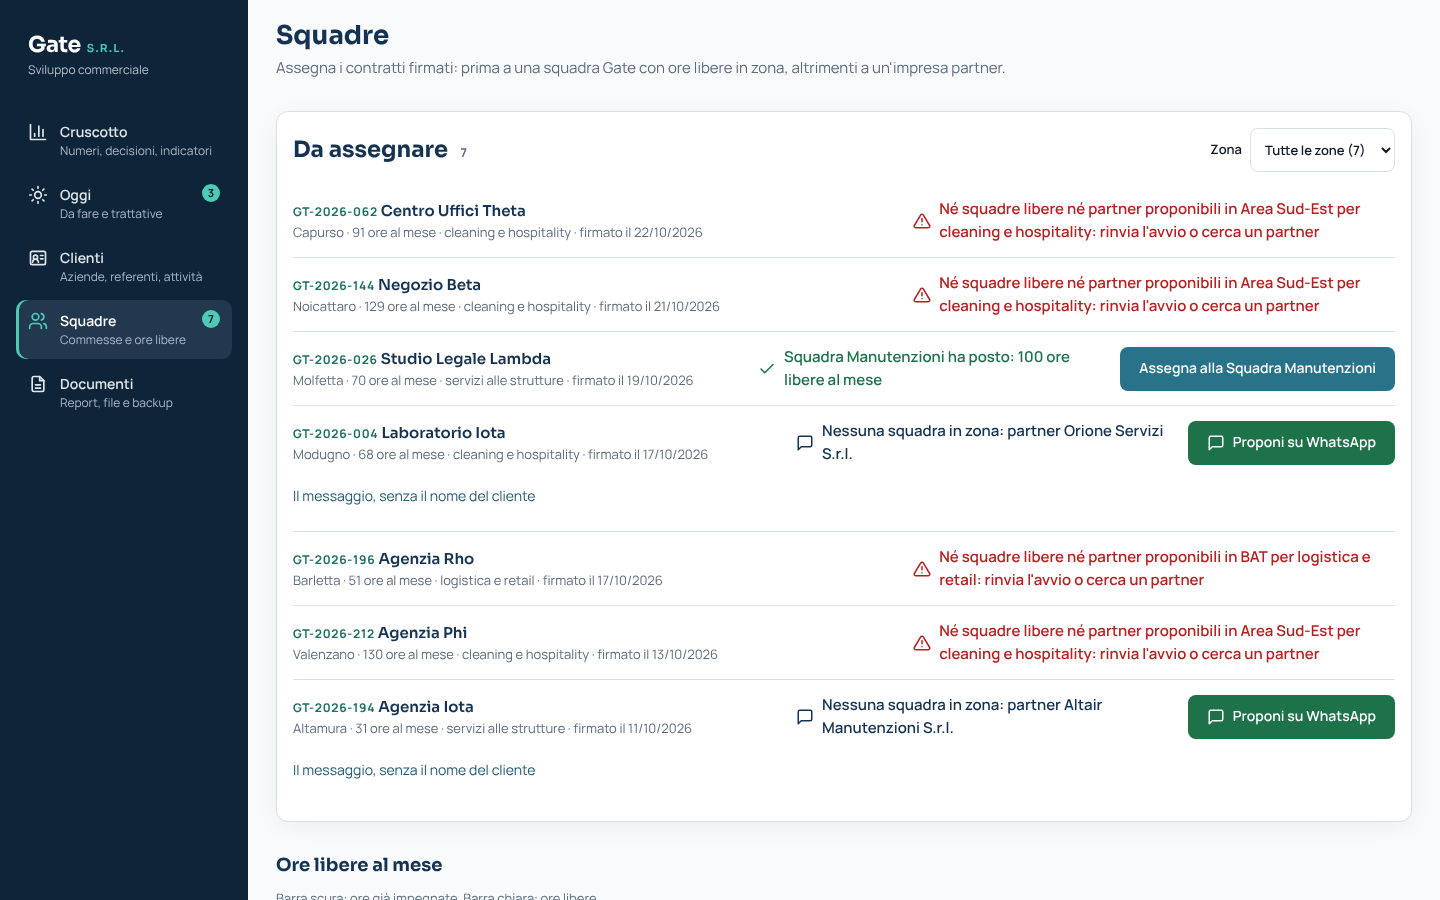
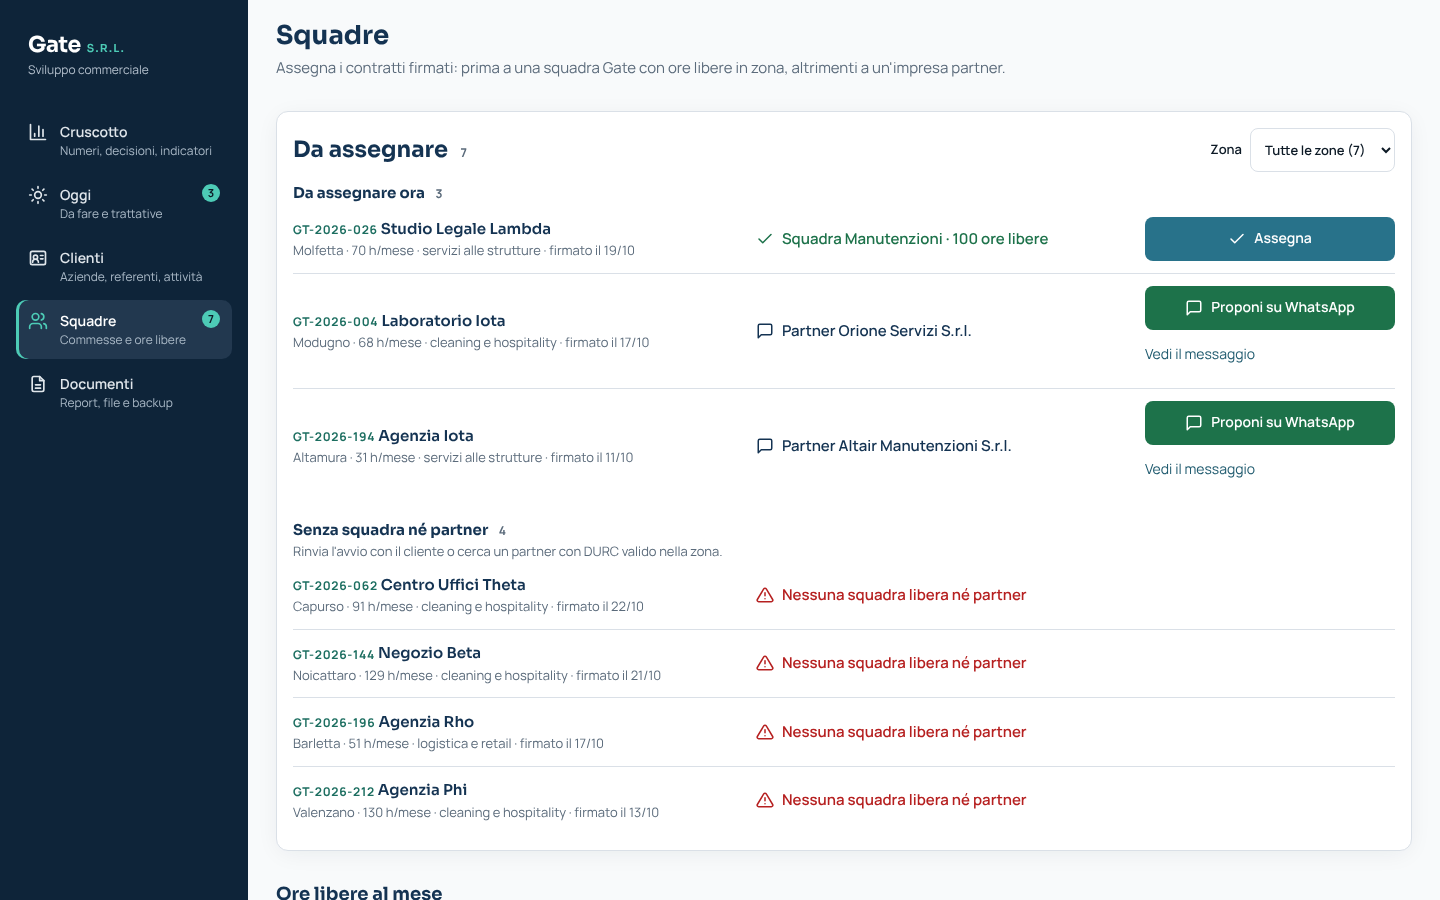
Squadre: «Da assegnare» in tre gruppi e righe a colonne allineate
- Gruppi: da assegnare ora, in attesa del partner, senza squadra né partner (il consiglio una volta sola sotto il titolo)
- Ogni riga: chi è, la proposta in breve, l'azione sempre nella stessa colonna e della stessa larghezza («Assegna», «Proponi su WhatsApp» con «Vedi il messaggio», SÌ/NO)
- Prove: gruppi nell'ordine e pulsanti allineati (272/272)

Claude-Session: https://claude.ai/code/session_014H8vKMtZ3KmTT2Rh3Guds9

diff --git a/js/app.js b/js/app.js
@@ -335,8 +335,7 @@ function disegnaAllocazione() {
             ${zone.map((z) => `<option value="${esc(z)}" ${z === scelta.zona ? "selected" : ""}>${esc(z)} (${quante(z)})</option>`).join("")}
           </select></label>` : ""}
       </div>
-      ${visibili.length ? `<ul class="righe-commesse">${visibili.map(rigaCommessa).join("")}</ul>`
-        : '<p class="vuoto">Nessuna commessa da assegnare: i contratti firmati compaiono qui.</p>'}
+      ${visibili.length ? gruppiCommesse(visibili) : '<p class="vuoto">Nessuna commessa da assegnare: i contratti firmati compaiono qui.</p>'}
     </section>
 
     <section class="sezione" aria-label="Ore libere al mese">
@@ -403,52 +402,65 @@ function richiudibile(id, titolo, riassunto, corpo) {
     </details>`;
 }
 
-// Una commessa da assegnare in una riga: chi è, la proposta (squadra o partner) e un solo pulsante
-function rigaCommessa(o) {
-  const zona = infoComune(o.comune).zona;
+// Cosa si può fare per una commessa: gruppo (ora, attesa, bloccata), proposta in breve, azione e note sotto il pulsante
+function propostaCommessa(o) {
   const squadra = squadraDisponibile(o, stato.opportunita);
   const rifiuti = (o.proposte || []).filter((p) => p.esito === "no");
-  let proposta, tono, azione = "", sotto = "";
+  const noRicevuti = rifiuti.length ? `<span class="nota-piccola">${rifiuti.map((r) => esc(nomePartner(r.partnerId)) + " ha detto NO").join(", ")}</span>` : "";
   if (squadra) {
-    tono = "ok";
-    proposta = `${esc(squadra.nome)} ha posto: ${oreLibereSquadra(squadra, stato.opportunita, o.id)} ore libere al mese`;
-    azione = `<button class="pulsante primario" type="button" data-azione="assegna-squadra" data-id="${esc(o.id)}">Assegna alla ${esc(squadra.nome)}</button>`;
-  } else if (!CONFIG.funzioni.partner) {
-    tono = "critico";
-    proposta = `Nessuna squadra in ${esc(zona)} ha ${Number(o.ore)} ore libere: rinvia l'avvio o libera ore`;
-  } else {
-    const attesa = propostaInAttesa(o);
-    const partner = attesa ? trovaPartner(attesa.partnerId) : prossimoPartner(o);
-    if (attesa) {
-      tono = "attenzione";
-      proposta = `In attesa di ${esc(nomePartner(attesa.partnerId))}: proposta inviata il ${formattaData(attesa.data)}`;
-      azione = `<div class="pulsanti-risposta">
-          ${partner ? `<button class="pulsante si" type="button" data-azione="risposta-si" data-id="${esc(o.id)}">${icona("spunta")} Ha risposto SÌ</button>` : ""}
-          <button class="pulsante no" type="button" data-azione="risposta-no" data-id="${esc(o.id)}">${icona("x")} Ha risposto NO</button></div>`;
-      if (partner) sotto = `<a class="link" href="${esc(linkWhatsApp(o, partner))}" target="_blank" rel="noopener">Riapri il messaggio su WhatsApp</a>`;
-    } else if (partner) {
-      tono = "info";
-      proposta = `Nessuna squadra in zona: partner ${esc(partner.nome)}`;
-      azione = `<a class="pulsante primario whatsapp" href="${esc(linkWhatsApp(o, partner))}" target="_blank" rel="noopener"
-        data-azione="proponi" data-id="${esc(o.id)}" data-partner="${esc(partner.id)}">${icona("messaggio")} Proponi su WhatsApp</a>`;
-      sotto = `<details class="messaggio-partner"><summary>Il messaggio, senza il nome del cliente</summary>
-        <blockquote class="messaggio">${esc(testoWhatsApp(o, partner)).replace(/\n/g, "<br>")}</blockquote></details>`;
-    } else {
-      tono = "critico";
-      proposta = (rifiuti.length ? "Tutti i partner hanno risposto NO" : `Né squadre libere né partner proponibili in ${esc(zona)} per ${esc(o.servizio)}`)
-        + ": rinvia l'avvio o cerca un partner";
-    }
+    return { gruppo: "ora", tono: "ok", icona: "spunta", testo: `${esc(squadra.nome)} · ${oreLibereSquadra(squadra, stato.opportunita, o.id)} ore libere`,
+      azione: `<button class="pulsante primario" type="button" data-azione="assegna-squadra" data-id="${esc(o.id)}" title="Assegna a ${esc(squadra.nome)}">${icona("spunta")} Assegna</button>` };
   }
+  if (!CONFIG.funzioni.partner) return { gruppo: "bloccata", tono: "critico", icona: "attenzione", testo: `Nessuna squadra con ${Number(o.ore)} ore libere` };
+  const attesa = propostaInAttesa(o);
+  const partner = attesa ? trovaPartner(attesa.partnerId) : prossimoPartner(o);
+  if (attesa) {
+    return { gruppo: "attesa", tono: "attenzione", icona: "orologio", testo: `${esc(nomePartner(attesa.partnerId))} · proposta del ${formattaData(attesa.data).slice(0, 5)}`, extra: noRicevuti,
+      azione: `<div class="pulsanti-risposta">
+          ${partner ? `<button class="pulsante si" type="button" data-azione="risposta-si" data-id="${esc(o.id)}">${icona("spunta")} SÌ</button>` : ""}
+          <button class="pulsante no" type="button" data-azione="risposta-no" data-id="${esc(o.id)}">${icona("x")} NO</button></div>`,
+      sotto: partner ? `<a class="link" href="${esc(linkWhatsApp(o, partner))}" target="_blank" rel="noopener">Riapri il messaggio</a>` : "" };
+  }
+  if (partner) {
+    return { gruppo: "ora", tono: "info", icona: "messaggio", testo: `Partner ${esc(partner.nome)}`, extra: noRicevuti,
+      azione: `<a class="pulsante primario whatsapp" href="${esc(linkWhatsApp(o, partner))}" target="_blank" rel="noopener"
+        data-azione="proponi" data-id="${esc(o.id)}" data-partner="${esc(partner.id)}">${icona("messaggio")} Proponi su WhatsApp</a>`,
+      sotto: `<details class="messaggio-partner"><summary>Vedi il messaggio</summary>
+        <blockquote class="messaggio">${esc(testoWhatsApp(o, partner)).replace(/\n/g, "<br>")}</blockquote></details>` };
+  }
+  return { gruppo: "bloccata", tono: "critico", icona: "attenzione", testo: rifiuti.length ? "Tutti i partner hanno detto NO" : "Nessuna squadra libera né partner", extra: noRicevuti };
+}
+
+// Una commessa in una riga a colonne fisse: chi è, la proposta, l'azione (sempre allo stesso posto)
+function rigaCommessa(o, p = propostaCommessa(o)) {
   return `
-    <li class="riga-commessa ${o.id === ultimaModificata ? "evidenziata" : ""}" id="commessa-${esc(o.id)}">
+    <li class="riga-commessa ${p.azione ? "" : "senza-azione"} ${o.id === ultimaModificata ? "evidenziata" : ""}" id="commessa-${esc(o.id)}">
       <div class="commessa-chi">
         <p><span class="commessa-codice">${esc(o.codice)}</span> <a class="link-titolo" href="#trattativa-${esc(o.id)}">${esc(nomeCliente(o))}</a></p>
-        <p class="nota-piccola">${esc(o.comune)} · ${Number(o.ore)} ore al mese · ${esc(o.servizio)} · firmato il ${formattaData(o.storico.contratto)}</p>
+        <p class="nota-piccola">${esc(o.comune)} · ${Number(o.ore)} h/mese · ${esc(o.servizio)} · firmato il ${formattaData(o.storico.contratto).slice(0, 5)}</p>
       </div>
-      <p class="commessa-proposta ${tono}">${icona(tono === "ok" ? "spunta" : tono === "info" ? "messaggio" : "attenzione")} ${proposta}</p>
-      <div class="commessa-azione">${azione}</div>
-      ${rifiuti.length || sotto ? `<div class="commessa-sotto">${rifiuti.map((r) => `<p class="nota-piccola">${icona("x")} ${esc(nomePartner(r.partnerId))} ha risposto NO il ${formattaData(r.data)}</p>`).join("")}${sotto}</div>` : ""}
+      <p class="commessa-proposta ${p.tono}">${icona(p.icona)}<span>${p.testo}${p.extra ? "<br>" + p.extra : ""}</span></p>
+      ${p.azione ? `<div class="commessa-azione">${p.azione}${p.sotto || ""}</div>` : ""}
     </li>`;
+}
+
+// Le commesse in tre gruppi: da assegnare ora, in attesa del partner, senza squadra né partner (consiglio una volta sola)
+function gruppiCommesse(commesse) {
+  const conProposta = commesse.map((o) => ({ o, p: propostaCommessa(o) }));
+  const gruppi = [
+    ["ora", "Da assegnare ora", ""],
+    ["attesa", "In attesa del partner", "Registra la risposta arrivata su WhatsApp."],
+    ["bloccata", "Senza squadra né partner", CONFIG.funzioni.partner ? "Rinvia l'avvio con il cliente o cerca un partner con DURC valido nella zona."
+      : "Rinvia l'avvio con il cliente o libera ore in una squadra della zona."],
+  ];
+  return gruppi.map(([id, titolo, nota]) => {
+    const righe = conProposta.filter((x) => x.p.gruppo === id);
+    return righe.length ? `<div class="gruppo-commesse" id="gruppo-${id}">
+        <h3 class="titolo-gruppo">${titolo} <span class="conteggio">${righe.length}</span></h3>
+        ${nota ? `<p class="nota-piccola">${nota}</p>` : ""}
+        <ul class="righe-commesse">${righe.map((x) => rigaCommessa(x.o, x.p)).join("")}</ul>
+      </div>` : "";
+  }).join("");
 }
 
 // Una squadra: ore libere grandi, stato (ha posto, quasi piena, piena), barra delle ore impegnate

diff --git a/prove/e2e.js b/prove/e2e.js
@@ -270,6 +270,11 @@ const PROVE = {
     verifica('riquadro «Commesse assegnate» resta aperto dopo il ridisegno', await page.$eval('#riquadro-assegnate', (d) => d.open));
     const righe = await page.$$eval('.riga-commessa', (el) => el.map((r) => r.querySelectorAll('.commessa-azione .pulsante').length));
     verifica('ogni commessa ha la sua proposta e al più un pulsante (o SÌ/NO se si attende il partner)', righe.every((n) => n <= 2) && righe.some((n) => n === 1), righe.join(','));
+    const gruppi = await page.$$eval('.gruppo-commesse', (el) => el.map((g) => g.id));
+    const ordine = ['gruppo-ora', 'gruppo-attesa', 'gruppo-bloccata'].filter((g) => gruppi.includes(g));
+    verifica('da assegnare: righe raggruppate (ora, in attesa, senza squadra né partner), nell\'ordine', gruppi.length > 0 && gruppi.join() === ordine.join(), gruppi.join(', '));
+    const colonne = await page.$$eval('#gruppo-ora .commessa-azione', (el) => [...new Set(el.map((a) => Math.round(a.getBoundingClientRect().left)))].length);
+    verifica('i pulsanti stanno tutti nella stessa colonna', colonne === 1, colonne);
     const squadre = await page.$$eval('.scheda-squadra', (el) => el.map((q) => q.querySelector('.chip').textContent));
     verifica('ore libere: una scheda per squadra con lo stato (ha posto, quasi piena, piena)', squadre.length === 4 && squadre.every((t) => /Ha posto|Quasi piena|Piena/.test(t)), squadre.join(', '));
     verifica('nessun riferimento al prototipo', !/prototip/i.test(await page.textContent('body')));

diff --git a/css/stile.css b/css/stile.css
@@ -4925,11 +4925,23 @@ button.link {
 
 .riga-commessa {
   display: grid;
-  grid-template-columns: minmax(0, 1.3fr) minmax(0, 1fr) auto;
+  grid-template-columns: minmax(0, 1.2fr) minmax(0, 1fr) 250px;
   gap: 8px 20px;
   align-items: center;
-  padding: 14px 0;
+  padding: 12px 0;
   border-top: 1px solid var(--border);
+}
+
+.riga-commessa.senza-azione {
+  grid-template-columns: minmax(0, 1.2fr) minmax(0, 1fr) 250px;
+}
+
+.gruppo-commesse + .gruppo-commesse {
+  margin-top: 18px;
+}
+
+.gruppo-commesse .titolo-gruppo {
+  margin: 8px 0 2px;
 }
 
 .riga-commessa:first-child {
@@ -4954,7 +4966,31 @@ button.link {
 
 .commessa-azione {
   display: flex;
-  justify-content: flex-end;
+  flex-direction: column;
+  align-items: stretch;
+  gap: 2px;
+}
+
+.commessa-azione > .pulsante,
+.commessa-azione .pulsanti-risposta {
+  width: 100%;
+}
+
+.commessa-azione .pulsanti-risposta {
+  display: grid;
+  grid-template-columns: 1fr 1fr;
+  gap: 8px;
+}
+
+.commessa-azione .link {
+  align-self: flex-start;
+  min-height: 32px;
+  display: inline-flex;
+  align-items: center;
+}
+
+.commessa-proposta .icona {
+  flex-shrink: 0;
 }
 
 .commessa-sotto {

diff --git a/README.md b/README.md
@@ -35,7 +35,7 @@ Il vincolo: acquisire solo clienti coerenti con la capacità operativa e la marg
 | **Ruoli e accesso** | Al primo uso in un browser si apre «Chi sta lavorando?»: nome e uno dei 3 ruoli (24/10, `CONFIG.ruoli`). **Amministratore unico**: si apre sul Cruscotto, tutte le schermate e le operazioni che sostituiscono i dati (gestionale, backup, dati di esempio). **Commerciale**: si apre su Oggi; Clienti, Allocazione, Cruscotto, Documenti, senza operazioni delicate. **Marketing e analisi**: si apre sul Cruscotto con gli approfondimenti; Clienti in sola consultazione, Documenti con i CSV dei dati reali, sito e social. I permessi si controllano in `applica()`, il punto da cui passa ogni modifica. Senza server non è un accesso protetto: lo diventerà con l'archivio condiviso. | |
 | **Scheda della trattativa** | Pagina intera (`#trattativa-<id>`, 24/10) al posto della finestra di dettaglio, che si apre dal nome di una trattativa o dal suo codice: avanzamento in 4 passi (Richiesta, Sopralluogo, Offerta, Firmato) con il passo attuale segnato; **Prossimo passo** con un solo pulsante principale che cambia con la fase (È qualificato, Fissa il sopralluogo, Sopralluogo fatto, Prepara l'offerta, Contratto firmato con Firma da link, Assegna la commessa), la prossima azione, «Ferma da N giorni» e «Segna come persa»; se persa, motivo, rimedio e «Riapri». Poi il servizio con margine e preventivo, la cronologia (prime 8), il referente con contatti e privacy, la richiesta (canale, date, prima risposta), il perché del punteggio, chi la eseguirebbe (ore libere della squadra contro le ore chieste) e le correzioni (Modifica, Torna a, Da ricontattare, Preventivo, Scheda cliente). | 42, 43 |
 | **Clienti** | Su computer (da 1100 px) la scheda di un cliente si apre con l'**elenco accanto**, con ricerca per nome o comune: si passa da un cliente all'altro con un clic (riferimento di Claude Design, 24/10); da telefono resta la scheda a tutto schermo. Aziende e referenti in **righe compatte** (azienda e stato, referente con i pulsanti di contatto, opportunità e prossima azione); le prime 30, le altre con «Mostra le altre»; lo stato si filtra con i quattro riquadri in alto, contatto con un clic (Chiama, WhatsApp, Email), cronologia, prossime azioni, privacy. La finestra **Sito e social** contiene: i link tracciati per canale, il **piano dei contenuti** con il link pronto per ogni contenuto e l'importazione delle richieste. | 40 |
-| **Squadre** (ex Allocazione, `#allocazione` o `#squadre`) | Rifatta il 25/10 sul riferimento di Claude Design. **Da assegnare**: una riga per contratto firmato (codice, cliente, comune, ore, servizio, data della firma) con la proposta a colori e un solo pulsante: «Assegna alla Squadra …» se una squadra della zona ha ore libere, altrimenti «Proponi su WhatsApp» al partner (il messaggio, senza il nome del cliente, si apre con un clic), poi «Ha risposto SÌ / NO»; se non c'è né squadra né partner la riga lo dice. **Ore libere al mese**: una scheda per squadra con le ore libere grandi, lo stato (ha posto, quasi piena, piena), la barra delle ore impegnate e l'avviso sulle zone dove mancherebbero ore se firmano le offerte aperte. **Imprese partner**: proponibili o no, con il DURC. Commesse assegnate e proposte ai partner in riquadri richiudibili. I partner si spengono con `funzioni.partner` in `js/config.js`. | 43 |
+| **Squadre** (ex Allocazione, `#allocazione` o `#squadre`) | Rifatta il 25/10 sul riferimento di Claude Design. **Da assegnare**: in tre gruppi (da assegnare ora, in attesa del partner, senza squadra né partner, con il consiglio una volta sola), una riga per contratto firmato a colonne allineate (codice, cliente, comune, ore, servizio, data della firma) con la proposta a colori e un solo pulsante: «Assegna alla Squadra …» se una squadra della zona ha ore libere, altrimenti «Proponi su WhatsApp» al partner (il messaggio, senza il nome del cliente, si apre con un clic), poi «Ha risposto SÌ / NO»; se non c'è né squadra né partner la riga lo dice. **Ore libere al mese**: una scheda per squadra con le ore libere grandi, lo stato (ha posto, quasi piena, piena), la barra delle ore impegnate e l'avviso sulle zone dove mancherebbero ore se firmano le offerte aperte. **Imprese partner**: proponibili o no, con il DURC. Commesse assegnate e proposte ai partner in riquadri richiudibili. I partner si spengono con `funzioni.partner` in `js/config.js`. | 43 |
 | **Indicatori** | Si aprono dal Cruscotto («Approfondisci»). Quattro sezioni lungo il percorso del cliente. Ogni vista dice da quale fonte legge: **Dati fittizi** oppure **Dati reali** (fotografia di partenza o test), scelta dal menu «Fonte dei dati» quando ci sono dati reali importati; le righe importate restano in un elenco a parte. | 44 (dashboard) |
 | **Documenti** | Tutti i file in una schermata (raccolti il 22/10, prima erano sparsi tra Indicatori, Clienti e piè di pagina). **Da stampare**: Riepilogo del mese (una pagina A4 per la direzione: ultimi 30 giorni contro i 30 precedenti, situazione di oggi, cosa fare domani) e Lista del lunedì. **Gestionale ed Excel**: i 7 CSV per il gestionale (scarica e carica), l'elenco di clienti e referenti per Excel, il CSV a 7 colonne delle richieste per gli Indicatori (scarica e carica i dati reali). **Backup**: salva e carica il backup, ripristina i dati di esempio. | |
 
